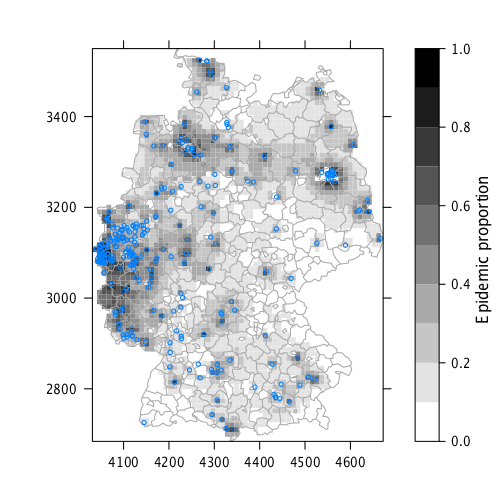
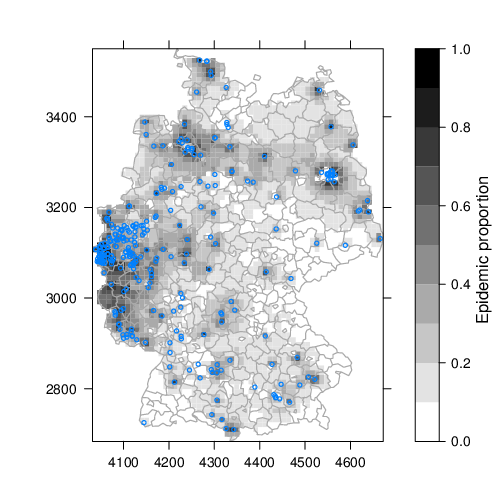
changed picture to output of convert
git-svn-id: svn://svn.r-forge.r-project.org/svnroot/surveillance@1107 edb9625f-4e0d-4859-8d74-9fd3b1da38cb

diff --git a/www/index.php b/www/index.php
@@ -318,7 +318,7 @@ further preprints.<br>
 <!--  convert -density 100x100 mpbb-intensity.pdf mpbb-intensity.png -->
       <img src="mpbb-intensity.png" align="middle"><p>
       <code>twinstim</code>
-<!-- 100 dpi version of imdepifit_Gaussian_intensityplot_space1.pdf from JSS -->
+<!-- convert -density 100x100 imdepifit_Gaussian_intensityplot_space1.pdf imdepifit.png from JSS -->
       <img src="imdepifit.png" align="middle"><p>
     </ul>
   </blockquote>
